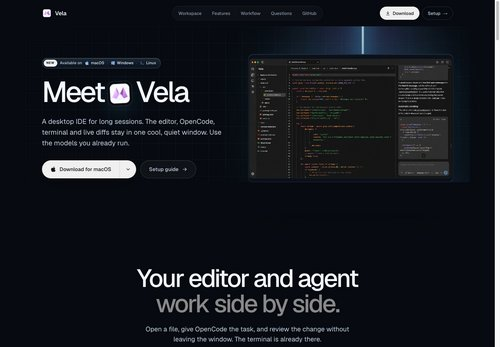
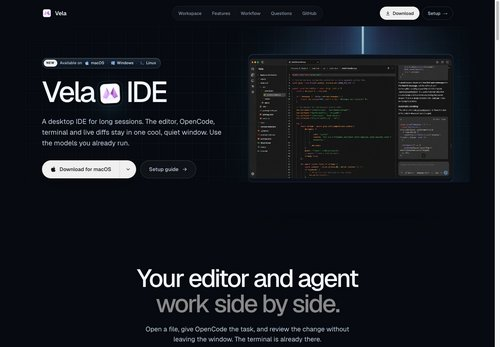
design: switch the hero wordmark to Vela IDE

Changed region(s): [[0.06, 0.2305, 0.39, 0.317]]

diff --git a/design/vela-product/cloudroom/design-01.js b/design/vela-product/cloudroom/design-01.js
@@ -131,9 +131,9 @@
         <div class="ob-hero-copy">
           ${availability()}
           <h1 class="ob-title">
-            <span>Meet</span>
-            <span class="ob-title-logo"><img src="../assets/icon.png" width="1024" height="1024" alt=""></span>
             <span>Vela</span>
+            <span class="ob-title-logo"><img src="../assets/icon.png" width="1024" height="1024" alt=""></span>
+            <span>IDE</span>
           </h1>
           <p class="ob-description">${options.description || defaultDescription}</p>
           <div class="ob-actions">
@@ -523,5 +523,5 @@
   };
 
   window.velaMeet = { build };
-  window.velaDesignOne = { name: 'Meet Vela', body: () => build() };
+  window.velaDesignOne = { name: 'Vela IDE', body: () => build() };
 })();

diff --git a/design/vela-product/cloudroom/app.js b/design/vela-product/cloudroom/app.js
@@ -34,7 +34,7 @@
       : `${header()}<main id="main" tabindex="-1">${direction.body()}</main>${footer()}`;
     if (!site.querySelector('#workspace')) site.querySelector('.app-shot')?.setAttribute('id', 'workspace');
     select.value = String(current);
-    document.title = `Vela — ${direction.name}`;
+    document.title = direction.name.startsWith('Vela') ? direction.name : `Vela — ${direction.name}`;
     const url = new URL(location.href);
     url.searchParams.set('design', String(current));
     url.hash = '';

diff --git a/design/vela-product/cloudroom/README.md b/design/vela-product/cloudroom/README.md
@@ -40,7 +40,7 @@ fake metrics, design rationale, or commentary. Keep meaningful headings,
 useful product descriptions, real imagery, and functional actions. Design
 names and navigation belong in the separate collection controls only.
 
-The collection includes Meet Vela; Aurora; Paper; Studio; Everything in view;
+The collection includes Vela IDE; Aurora; Paper; Studio; Everything in view;
 Close to the code; A place to build; One working space; The big picture; Folded
 space; Code, together; The shared workspace; In plain view; In orbit; The
 wordmark; Good company; The working view; A new angle; After hours; Still

diff --git a/design/vela-product/cloudroom/QA.md b/design/vela-product/cloudroom/QA.md
@@ -2,7 +2,7 @@
 
 Validated October 27, 2026 using Node 22.23.2 and an isolated Electron profile.
 
-- Design 01 is the standalone Meet Vela composition. Three OpenBot-inspired
+- Design 01 is the standalone Vela IDE composition. Three OpenBot-inspired
   takes extend it: Aurora (a cool split hero), Paper (a light editorial
   treatment), and Studio (a monochrome tool-like treatment). Each keeps one
   primary heading, avoids horizontal overflow at 1440, 1024, 768, 390 and 320
